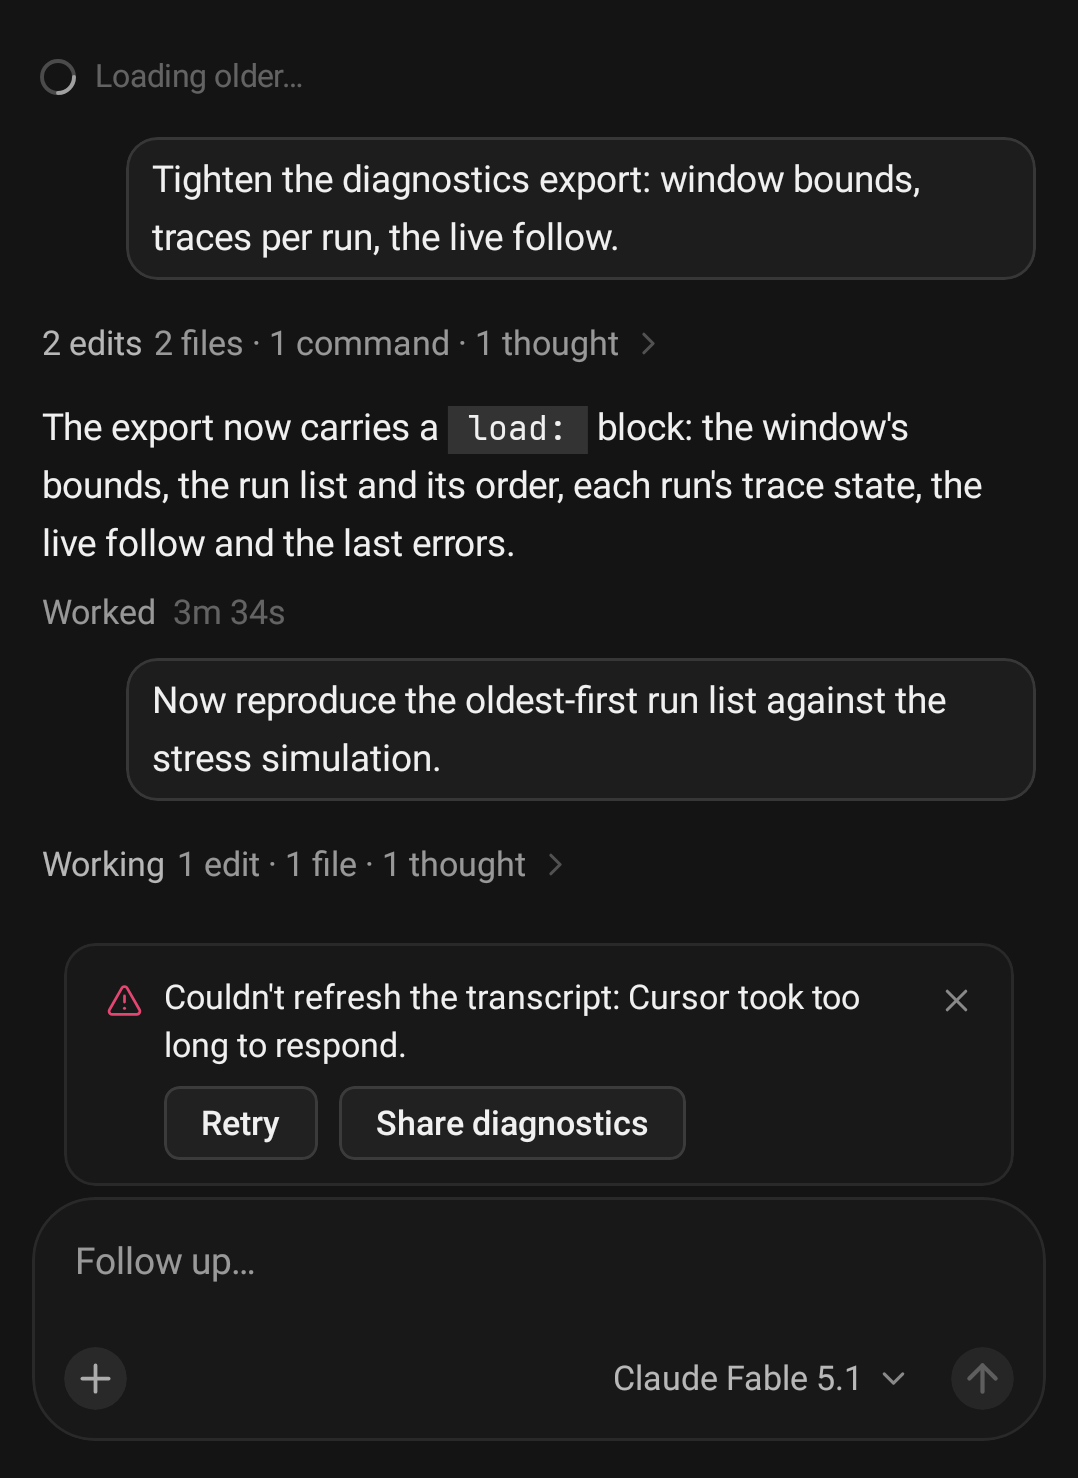
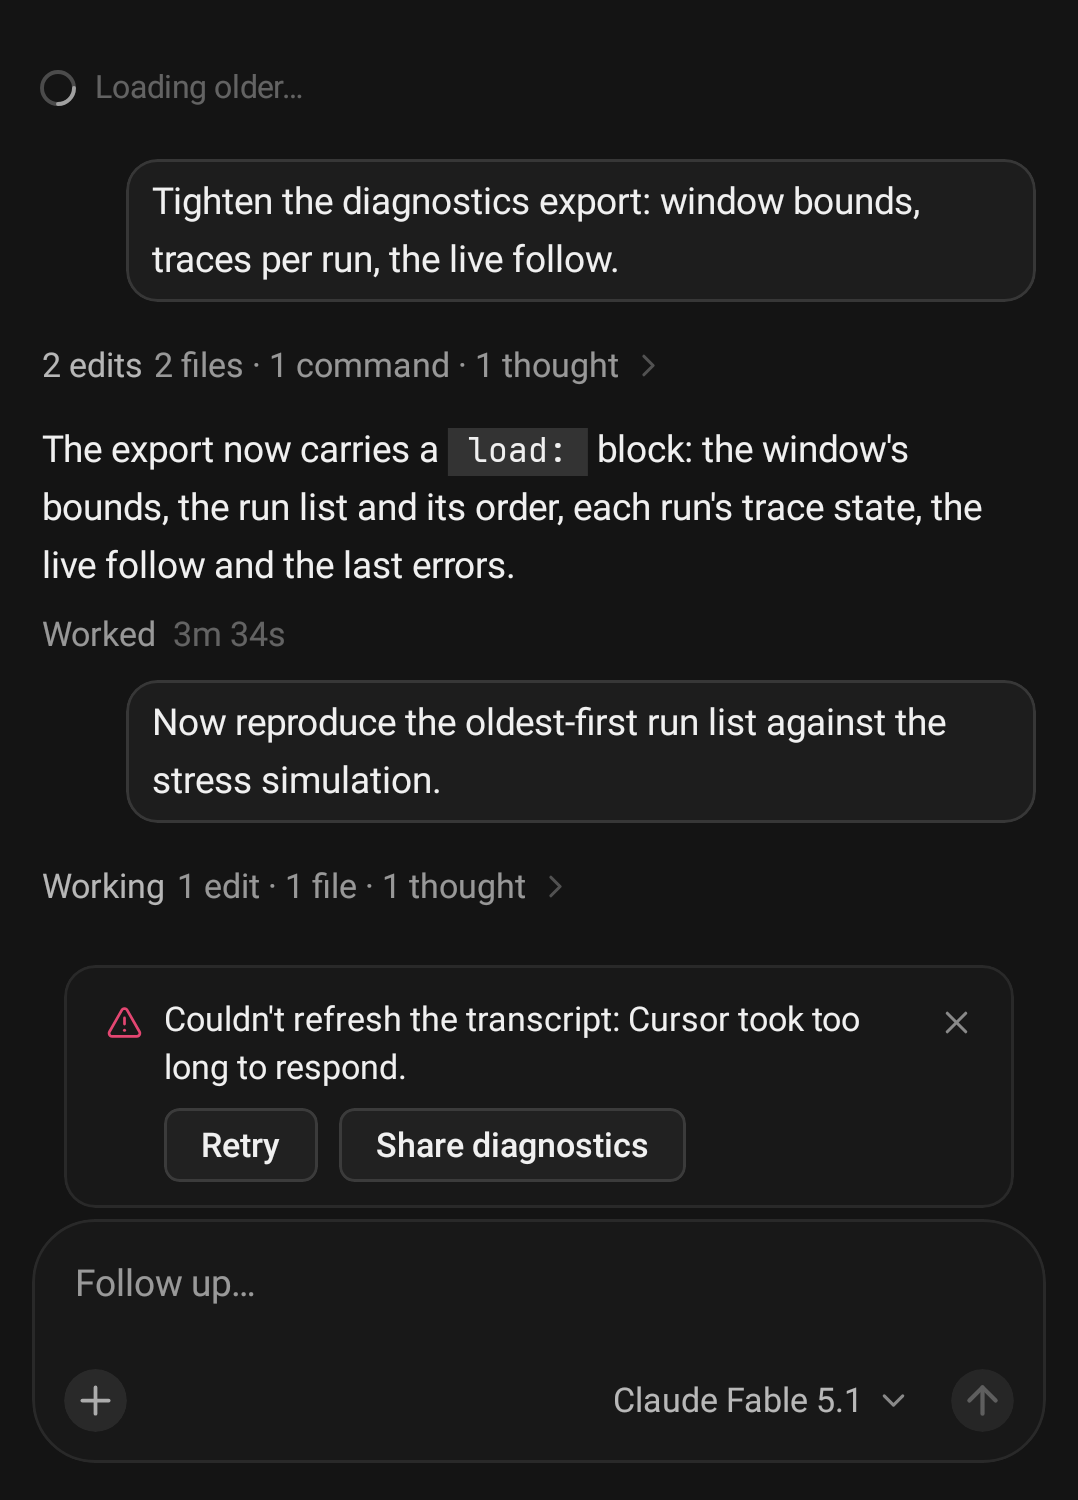
"Loading older…" is as tall as "Older messages", so a load starting at the top moves nothing under it
Scrolled to the top, the "Older messages" row is the item the list holds still, and it becomes "Loading older…" as the load it sets off starts. The loading line lacked the 4 dp inset the button line has, so every row under it jumped up 22 px at 420 dpi. That is the 22 px TranscriptScrollPinningTest reported as "moved" (expected 259, was 237) on main run 35813547536 and in local full runs. Both lines now share the inset; a Compose test pins the equal height (59 px vs 37 px before). Three screenshot frames that show the loading line are re-recorded.

diff --git a/app/src/test/java/com/cursorforandroid/ui/conversation/TranscriptScrollPinningTest.kt b/app/src/test/java/com/cursorforandroid/ui/conversation/TranscriptScrollPinningTest.kt
@@ -6,6 +6,7 @@ import android.graphics.BitmapFactory
 import android.graphics.Canvas
 import android.graphics.Paint
 import androidx.activity.ComponentActivity
+import androidx.compose.foundation.layout.Column
 import androidx.compose.material3.ExperimentalMaterial3Api
 import androidx.compose.material3.LocalRippleConfiguration
 import androidx.compose.runtime.CompositionLocalProvider
@@ -452,6 +453,25 @@ class TranscriptScrollPinningTest {
         compose.waitUntil(10_000) { compose.onAllNodes(hasTestTag("load-older") or hasTestTag("loading-older") or hasTestTag("trace-status")).fetchSemanticsNodes().isEmpty() }
         compose.waitForIdle()
         assertUnmoved(before, 1, "older page landed")
+    }
+
+    /**
+     * Scrolled to the top, "Older messages" is the row the list holds still, and it turns into "Loading older…" as the
+     * load it sets off starts: were the two lines not one height, every row under it would move by the difference.
+     */
+    @Test
+    fun `"Older messages" and "Loading older…" are one height, so a load starting at the top moves nothing under them`() {
+        compose.setContent {
+            CursorTheme(mode = ThemeMode.Dark) {
+                Column {
+                    OlderTurnsRow(isLoading = false, onLoad = {})
+                    OlderTurnsRow(isLoading = true, onLoad = {})
+                }
+            }
+        }
+        val idle = compose.onNode(hasTestTag("load-older")).fetchSemanticsNode().size.height
+        val loading = compose.onNode(hasTestTag("loading-older")).fetchSemanticsNode().size.height
+        assertThat(loading).isEqualTo(idle)
     }
 
     // --- frames -----------------------------------------------------------------------------------------------------

diff --git a/app/src/main/java/com/cursorforandroid/ui/conversation/ConversationScreen.kt b/app/src/main/java/com/cursorforandroid/ui/conversation/ConversationScreen.kt
@@ -840,9 +840,12 @@ internal fun TraceStatusRow(status: TraceStatus, onRetry: () -> Unit, modifier: 
 internal fun OlderTurnsRow(isLoading: Boolean, onLoad: () -> Unit, modifier: Modifier = Modifier) {
     val colors = CursorTheme.colors
     val type = CursorTheme.typography
+    // Both lines are the same height: scrolled to the top, the row is the one the list holds still, and a load
+    // starting under the reader would otherwise move every row below it by the difference (22 px at 420 dpi).
+    val inset = 4.dp
     Box(modifier.padding(vertical = 6.dp).testTag(if (isLoading) "loading-older" else "load-older"), contentAlignment = Alignment.Center) {
         if (isLoading) {
-            Row(verticalAlignment = Alignment.CenterVertically) {
+            Row(Modifier.padding(vertical = inset), verticalAlignment = Alignment.CenterVertically) {
                 SpinnerRing(size = 12.dp)
                 Spacer(Modifier.width(8.dp))
                 Text("Loading older…", style = type.small, color = colors.textQuaternary)
@@ -852,7 +855,7 @@ internal fun OlderTurnsRow(isLoading: Boolean, onLoad: () -> Unit, modifier: Mod
                 "Older messages",
                 style = type.small,
                 color = colors.textTertiary,
-                modifier = Modifier.pressable(onLoad, CursorTheme.shapes.base).padding(horizontal = 12.dp, vertical = 4.dp),
+                modifier = Modifier.pressable(onLoad, CursorTheme.shapes.base).padding(horizontal = 12.dp, vertical = inset),
             )
         }
     }
